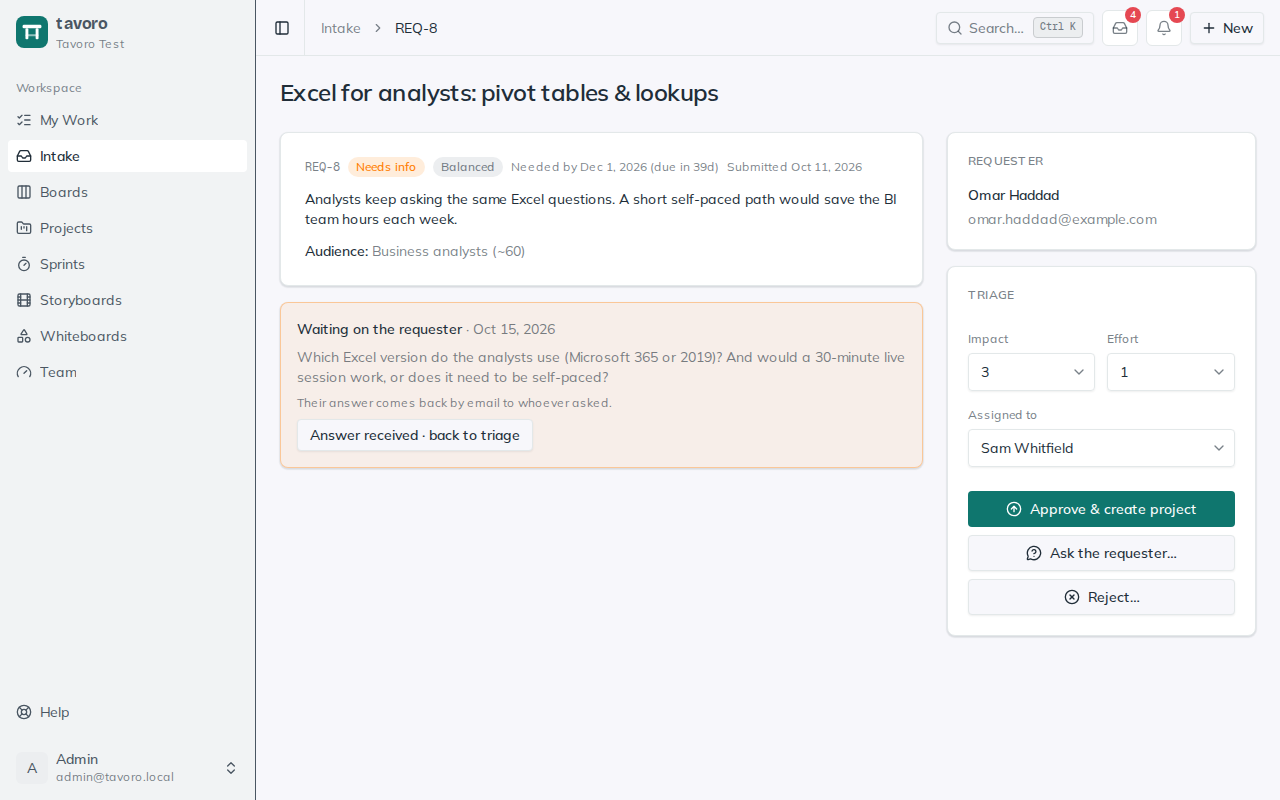
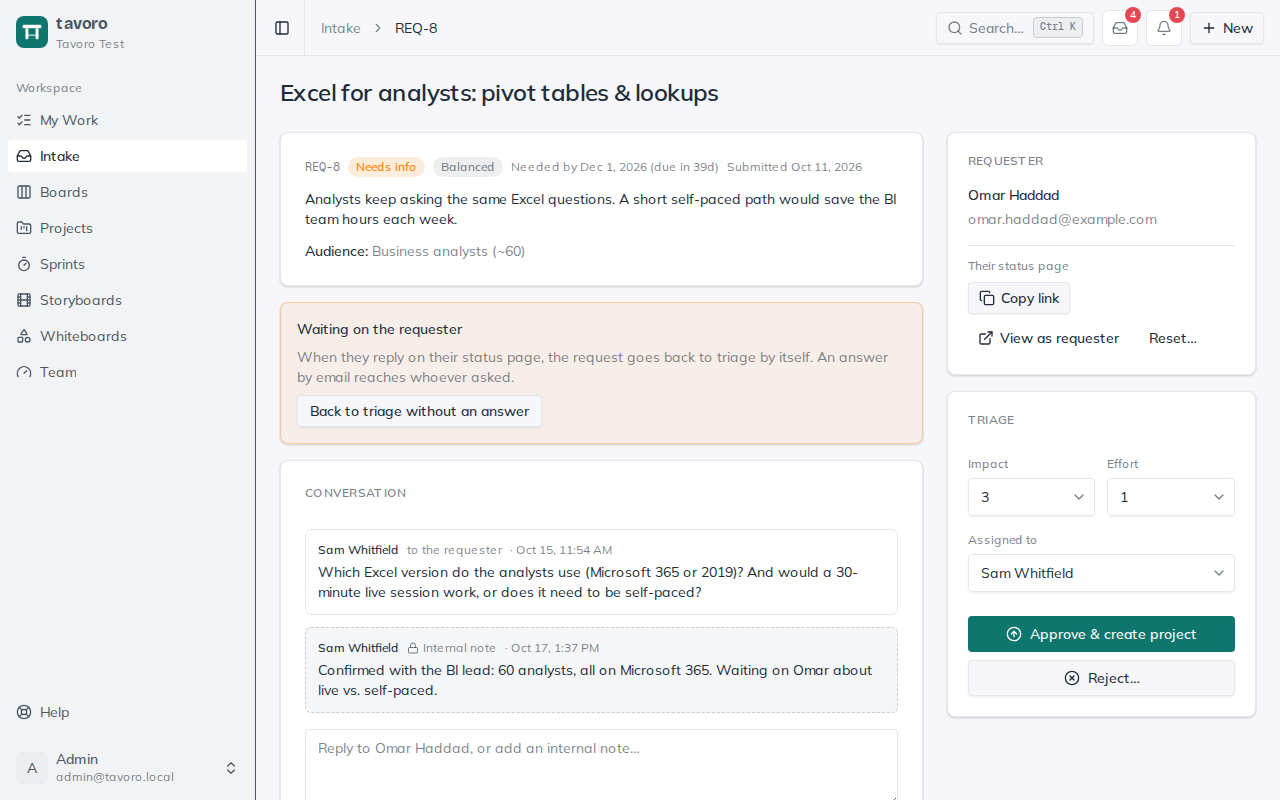
Help: intake status page and conversation screenshots

diff --git a/src/components/help/topics/intake.tsx b/src/components/help/topics/intake.tsx
@@ -187,7 +187,7 @@ export default function Intake() {
       </P>
 
       <H2>Talking to the requester</H2>
-      <Screenshot name="intake-request" alt="A request's page with the conversation: a question to the requester, their reply, and an internal note, above a box for writing a reply or note" caption="The conversation on a request: replies, and an internal note." />
+      <Screenshot name="intake-request" alt="A request's page with the conversation: a question to the requester and an internal note, above a box for writing a reply or note" caption="The conversation on a request: a question to the requester, and an internal note." />
       <P>
         Requests often arrive thin: no audience, no sense of what success looks like. Rather than guess, ask.
         The <UI>Conversation</UI> on the request&rsquo;s page holds two kinds of message:

diff --git a/docs/help/intake.md b/docs/help/intake.md
@@ -90,8 +90,8 @@ Admins, managers and the assigned member see **Copy link**, **View as requester*
 
 ## Talking to the requester
 
-![A request's page with the conversation: a question to the requester, their reply, and an internal note, above a box for writing a reply or note](../../public/help-shots/intake-request.png)
-*The conversation on a request: replies, and an internal note.*
+![A request's page with the conversation: a question to the requester and an internal note, above a box for writing a reply or note](../../public/help-shots/intake-request.png)
+*The conversation on a request: a question to the requester, and an internal note.*
 
 Requests often arrive thin: no audience, no sense of what success looks like. Rather than guess, ask. The **Conversation** on the request’s page holds two kinds of message:
 
